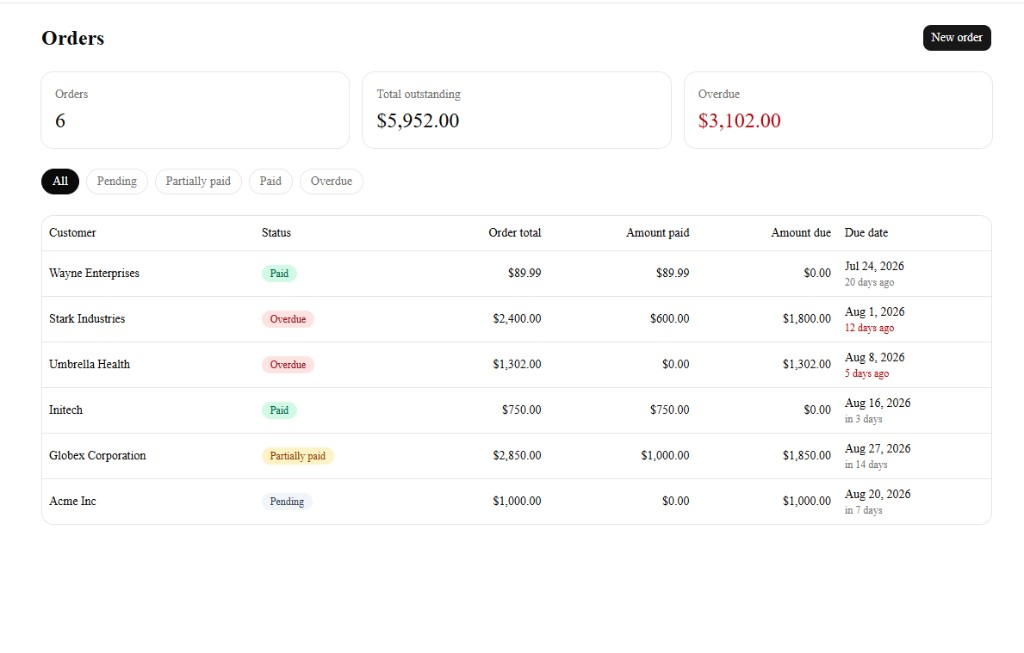
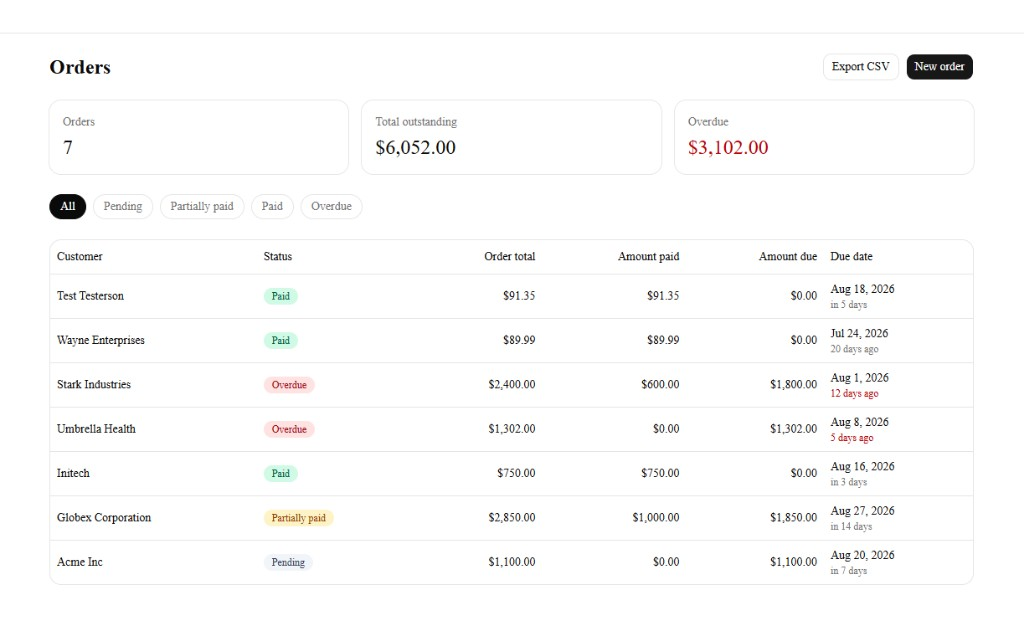
docs: add login and dashboard screenshots to the readme
Replace the header screenshots with current captures of sign-in and the orders dashboard, and note dark mode among the shipped extras.

diff --git a/README.md b/README.md
@@ -6,6 +6,8 @@ B2B order tracking with line items, partial payments, derived status, and a hard
 
 **Demo login:** `demo@example.com` / `demo-password-123`
 
+![Sign in with the demo account](docs/screenshots/login.png)
+
 ![Dashboard with one order in each status](docs/screenshots/dashboard.png)
 
 Next.js 16 · Postgres (Neon) · Prisma 7 · Better Auth · Tailwind / shadcn
@@ -195,6 +197,7 @@ Shipped after the scored core:
 - **Audit log.** `order_events` written inside the same transaction as the change they describe. Status in the log is derived with the same function the UI uses. Seeded demo orders created before this shipped have no historical events; new activity is logged.
 - **CSV export.** Dashboard control and `GET /api/orders/export?from=&to=&status=`. Same filters as the list endpoint. Fields are RFC 4180-quoted; values starting with `=`, `+`, `-` or `@` are prefixed to prevent spreadsheet formula injection. Range is capped at 366 days.
 - **Refunds.** A separate `Refund` row referencing the payment it reverses — never a negative payment. The same `SELECT … FOR UPDATE` serialises a refund racing a payment. `paidCents` is decremented, so derived status flows backwards (`paid` → `partially_paid` / `overdue` / `pending`) without a new status.
+- **Dark mode.** Follows the system preference, with a toggle in the header and on the sign-in screen.
 
 ---
 
@@ -236,7 +239,7 @@ The three that would ship first:
 
 1. **`Idempotency-Key` on payment recording** — the row lock prevents overpayment, not double-recording of a legitimate remainder after a client timeout.
 2. **Rate limiting and lockout on login** — the sign-in endpoint is otherwise an unbounded password oracle.
-3. **A reconciliation job** that asserts `SUM(payments) = orders.paid_cents` and alerts on drift, until a real ledger replaces the denormalised total.
+3. **A reconciliation job** that asserts `SUM(payments) - SUM(refunds) = orders.paid_cents` and alerts on drift, until a real ledger replaces the denormalised total.
 
 The full list — what is missing, why it matters, how it would be built, and what was a scope decision versus a known gap — is in [docs/production-roadmap.md](docs/production-roadmap.md).
 
